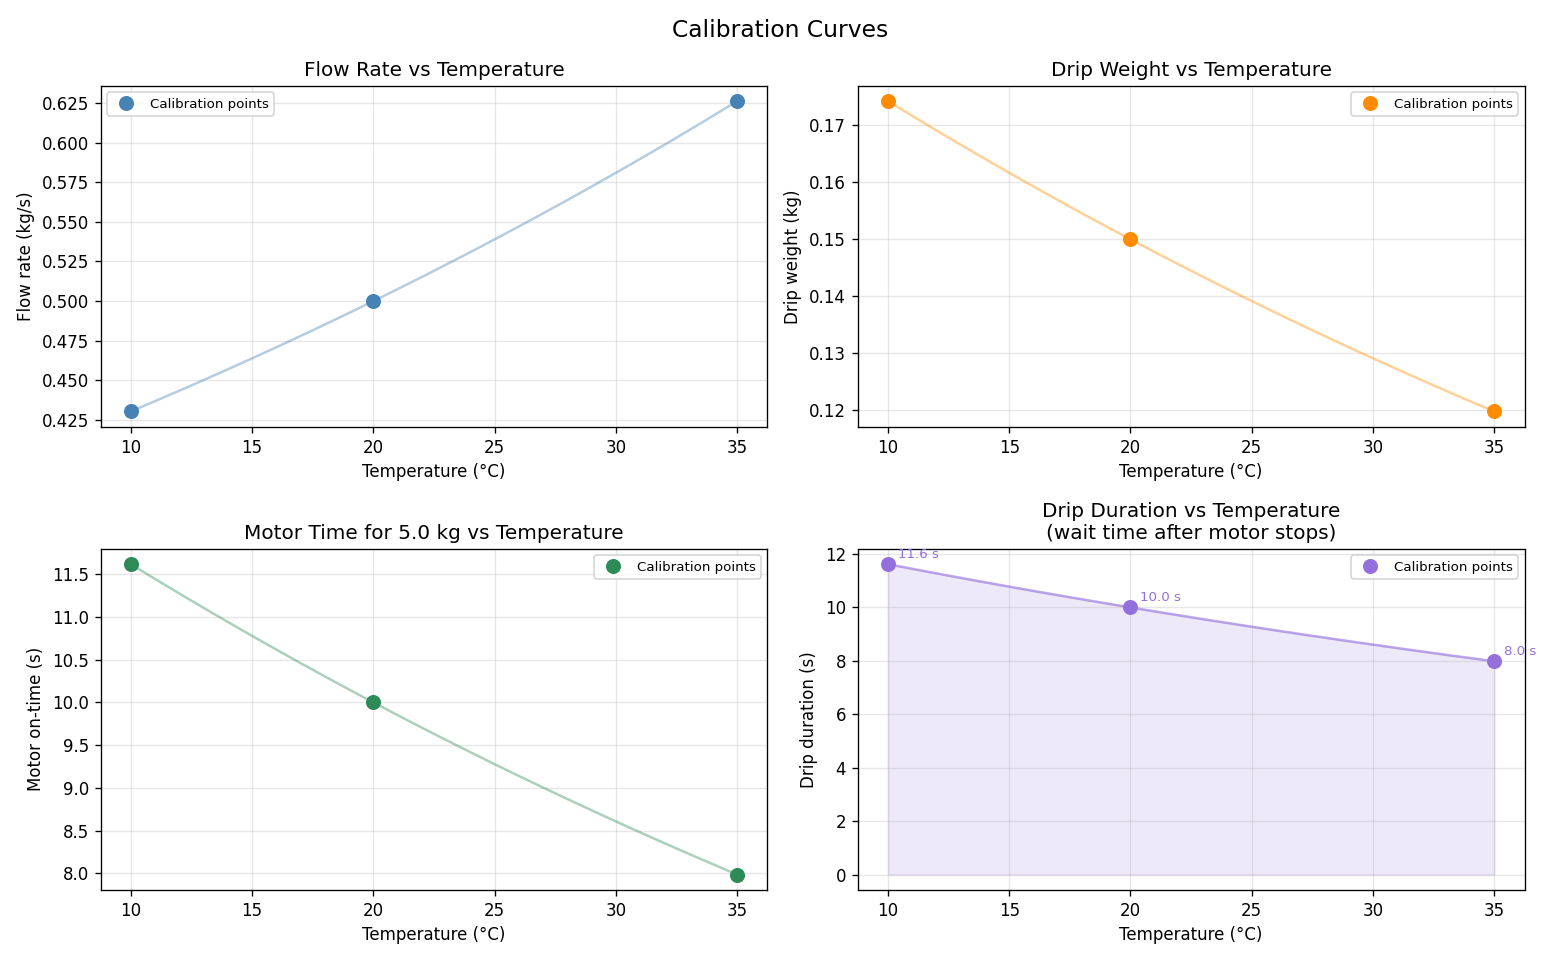
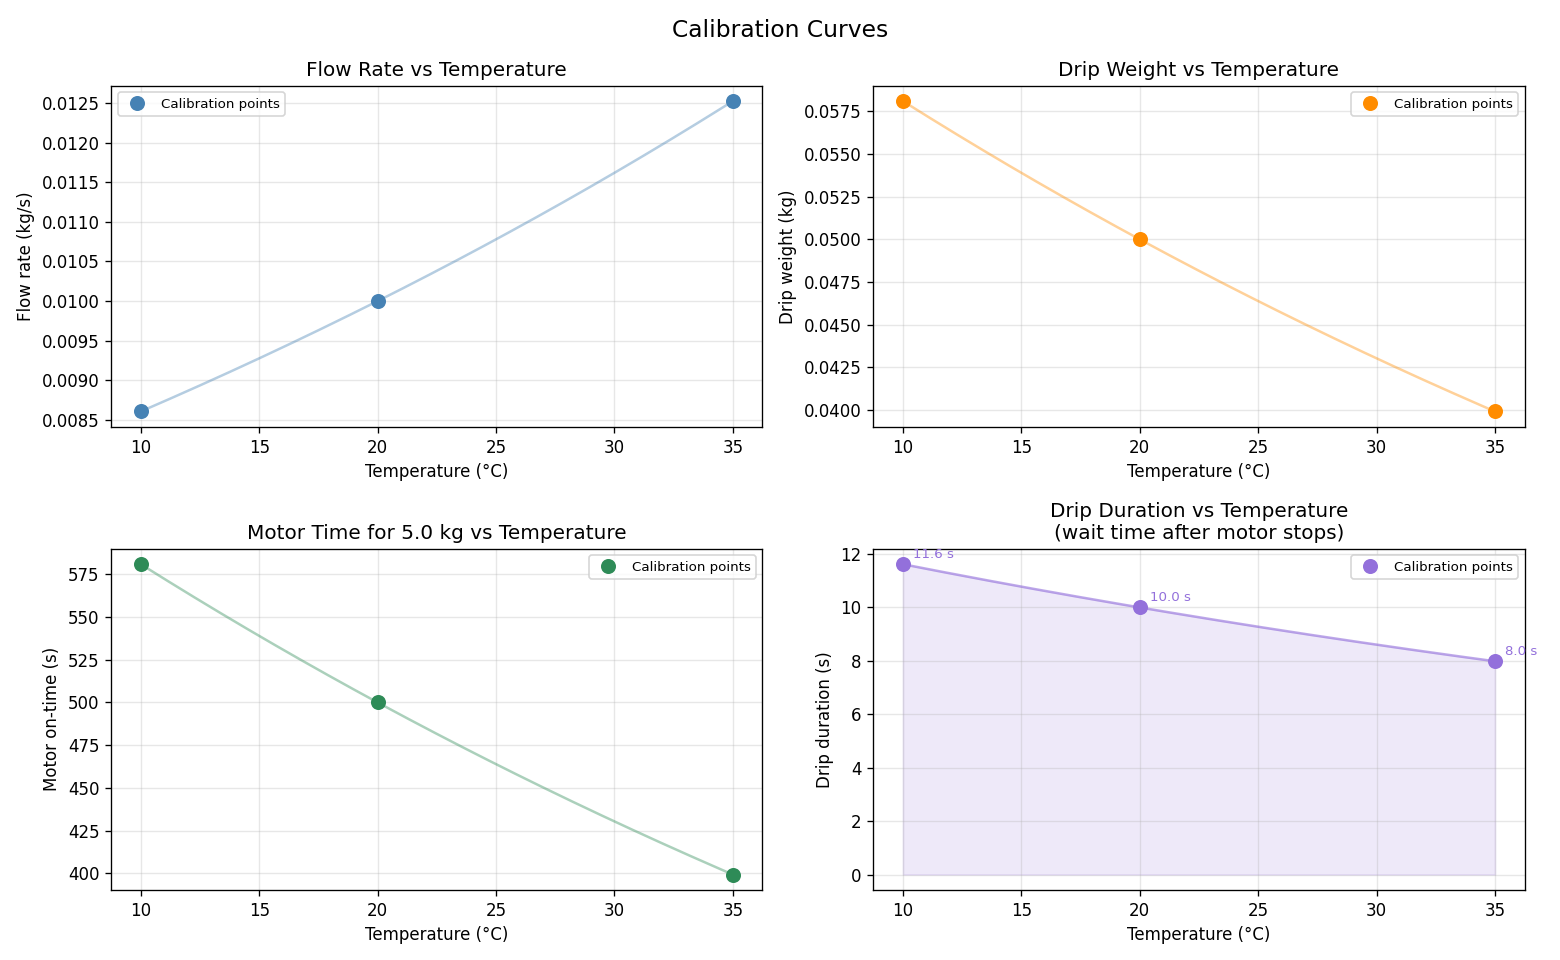
improved flow rate

diff --git a/simulation/hardware/physics.py b/simulation/hardware/physics.py
@@ -24,10 +24,10 @@ class GreasePhysicsModel:
 
     def __init__(
         self,
-        base_flow_rate: float = 0.5,      # kg/s at reference temperature
+        base_flow_rate: float = 0.01,     # kg/s at reference temperature
         reference_temp: float = 20.0,     # °C
         viscosity_coeff: float = 0.015,   # Arrhenius exponent per °C
-        base_drip: float = 0.15,          # kg drip at reference temperature
+        base_drip: float = 0.05,          # kg drip at reference temperature
         base_drip_duration: float = 10.0, # seconds for drip to complete at reference temperature
     ) -> None:
         self.base_flow_rate = base_flow_rate
